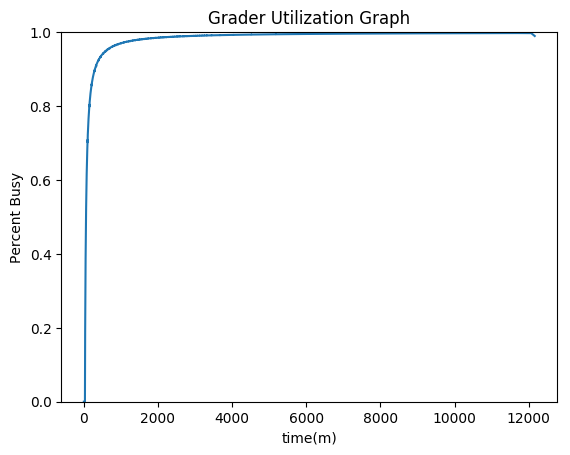
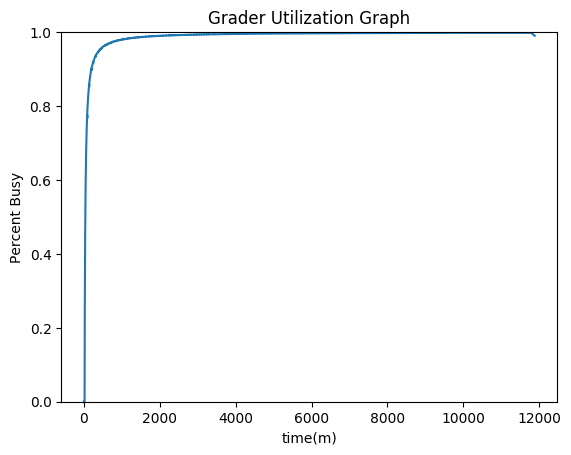
state graph temp fix

diff --git a/Project/ProjectTwoIdea/src/Vehicle.py b/Project/ProjectTwoIdea/src/Vehicle.py
@@ -5,6 +5,7 @@ Class: Vehicle
 '''
 
 import random as rand
+import math
 import matplotlib.pyplot as plt
 
 class Vehicle(object):
@@ -71,7 +72,7 @@ class Vehicle(object):
 	def genStateGraphs(self, simNumName, xpoints):
 		
 		plt.step(xpoints, self.stateGraphList)
-		plt.xlim([0,100])
+		plt.xlim([0, math.ceil( len (self.stateGraphList / 1000) * 1000 )])
 		plt.title(self.name + ' Utilization Graph')
 		# l1 = plt.axvline(x=self.opens, color='b', label='PRE CLOSE (7.5 hrs)')
 		# l2 = plt.axvline(x=self.closes, color='r', label='CLOSED (8 hrs)')
@@ -81,8 +82,13 @@ class Vehicle(object):
 		plt.savefig('../sims/' + str(simNumName) + '/graphs/state/'  + str(self.name) + ".png", bbox_inches='tight')
 		plt.clf()
 
+
+
 	def changeState(self, newState):
-		self.state = self.states[newState]		
+
+		self.state = self.states[newState]	
+
+
 
 	def appendState(self):
 
